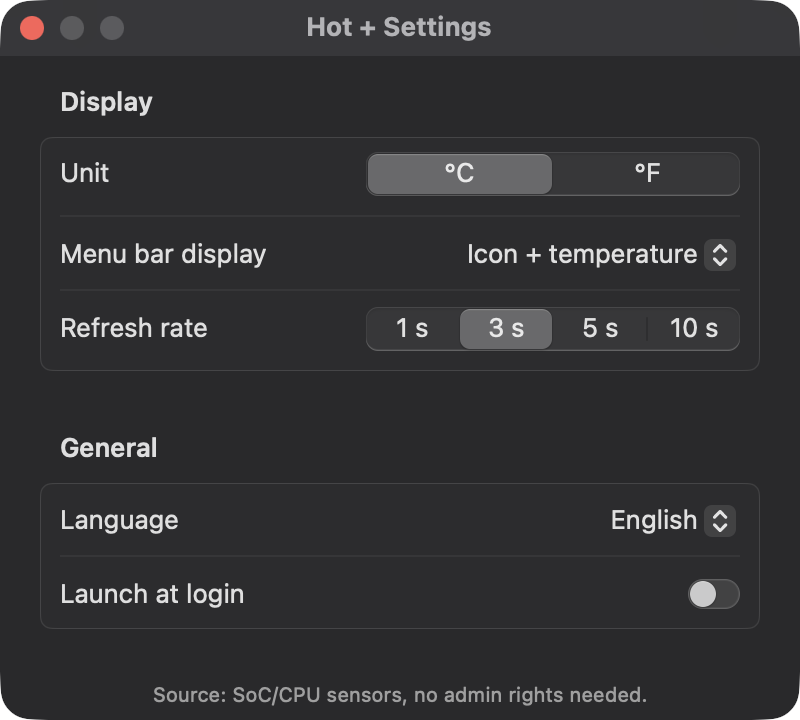
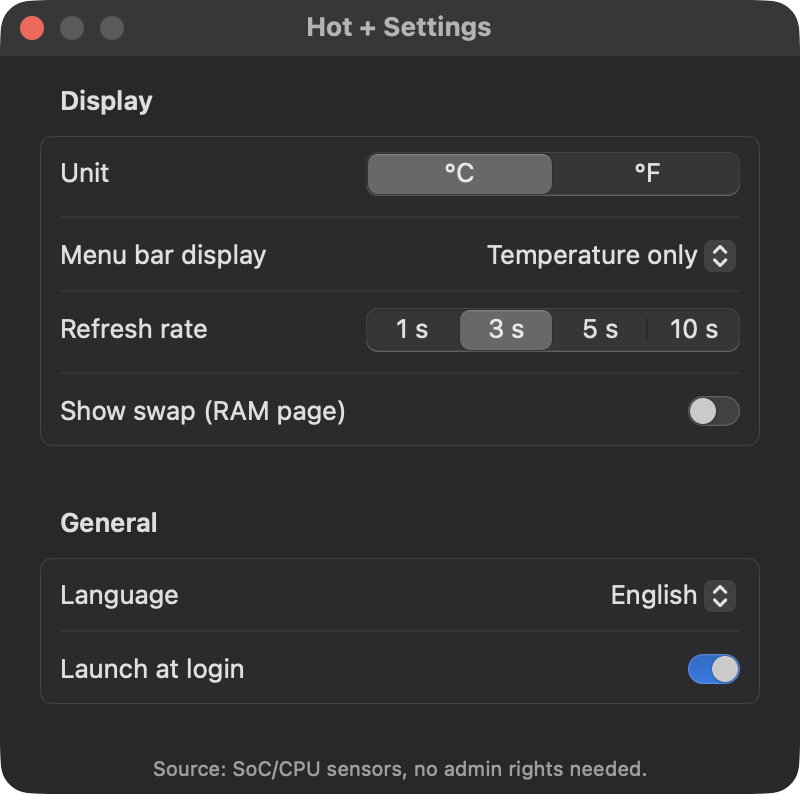
Met à jour les captures du README et le texte du Top 6

diff --git a/README.md b/README.md
@@ -25,8 +25,8 @@
   <img src="assets/screenshots/note.png" alt="App using a lot of energy" width="260">
 </p>
 <p align="center">
-  <img src="assets/screenshots/top-cpu.png" alt="Top 5 CPU" width="260">
-  <img src="assets/screenshots/top-ram.png" alt="Top 5 RAM" width="260">
+  <img src="assets/screenshots/top-cpu.png" alt="Top 6 CPU" width="260">
+  <img src="assets/screenshots/top-ram.png" alt="Top 6 RAM" width="260">
 </p>
 <p align="center">
   <img src="assets/screenshots/settings.png" alt="Settings" width="400">
@@ -50,7 +50,7 @@ Hot + is a tiny menu-bar app for macOS. It shows the temperature of your Mac, te
 - **Verdict**: normal, warm, hot or critical, based on the temperature of your Apple Silicon chip.
 - **Thermal pressure** reported by macOS: nominal, fair, serious, critical.
 - **CPU, RAM and GPU usage** as live bars in the popover (hover RAM for used / total GB).
-- **Top 5 apps**: click CPU or RAM to slide to the 5 apps using the most, with live values and the capacity left (free CPU %, free RAM GB).
+- **Top 6 apps**: click CPU or RAM to slide to the 6 apps using the most, with live values. The CPU page shows your Mac's power draw in watts (laptops), the RAM page shows used / total memory (swap optional in Settings).
 - **Energy alert**: when an app uses a lot of energy, a small note names it (and the real tool, e.g. "Claude Code (in Claude)") with its live CPU, GPU and RAM. Measured like Activity Monitor's Energy tab, only while the popover is open.
 - **Custom icons**: a thermometer for temperature and a dial for pressure, each in green, amber or red.
 - **Menu bar display**: icon + temperature, temperature only, or icon only.
@@ -63,7 +63,7 @@ Hot + is a tiny menu-bar app for macOS. It shows the temperature of your Mac, te
 | Action | Result |
 |---|---|
 | Left click | Popover: temperature, verdict, CPU / RAM / GPU usage, thermal pressure, energy alert |
-| Click CPU or RAM | Top 5 apps for that resource, live (‹ Usage to go back) |
+| Click CPU or RAM | Top 6 apps for that resource, live (‹ Usage to go back) |
 | Right click | About Hot + · Settings… · Quit |
 
 **Settings**: unit (°C / °F), refresh rate, menu bar display, launch at login, language (System / English / Français).
@@ -125,7 +125,7 @@ Hot + est une petite app de barre de menus pour macOS. Elle affiche la températ
 - **Verdict** : normale, tiède, chaude ou critique, selon la température de votre puce Apple Silicon.
 - **Pression thermique** donnée par macOS : nominale, modérée, élevée, critique.
 - **Utilisation CPU, RAM et GPU** en barres dans le popover (survolez la RAM pour voir Go utilisés / total).
-- **Top 5 des apps** : cliquez sur CPU ou RAM pour glisser vers les 5 apps qui en utilisent le plus, avec les valeurs en direct et la capacité restante (CPU libre en %, RAM libre en Go).
+- **Top 6 des apps** : cliquez sur CPU ou RAM pour glisser vers les 6 apps qui en utilisent le plus, avec les valeurs en direct. La page CPU affiche la consommation du Mac en watts (portables), la page RAM la mémoire utilisée sur le total (swap optionnel dans les Réglages).
 - **Alerte énergie** : quand une app consomme beaucoup, une petite note la nomme (avec l'outil réel, par ex. « Claude Code (dans Claude) ») et affiche son CPU, GPU et RAM en direct. Mesuré comme l'onglet Énergie du Moniteur d'activité, seulement popover ouvert.
 - **Icônes dessinées sur mesure** : un thermomètre pour la température et un cadran pour la pression, chacun en vert, ambre ou rouge.
 - **Affichage dans la barre** : icône + température, température seule, ou icône seule.
@@ -138,7 +138,7 @@ Hot + est une petite app de barre de menus pour macOS. Elle affiche la températ
 | Action | Résultat |
 |---|---|
 | Clic gauche | Popover : température, verdict, utilisation CPU / RAM / GPU, pression thermique, alerte énergie |
-| Clic sur CPU ou RAM | Top 5 des apps pour cette ressource, en direct (‹ Utilisation pour revenir) |
+| Clic sur CPU ou RAM | Top 6 des apps pour cette ressource, en direct (‹ Utilisation pour revenir) |
 | Clic droit | À propos de Hot + · Réglages… · Quitter |
 
 **Réglages** : unité (°C / °F), fréquence, affichage dans la barre de menus, lancer au démarrage, langue (Système / English / Français).
